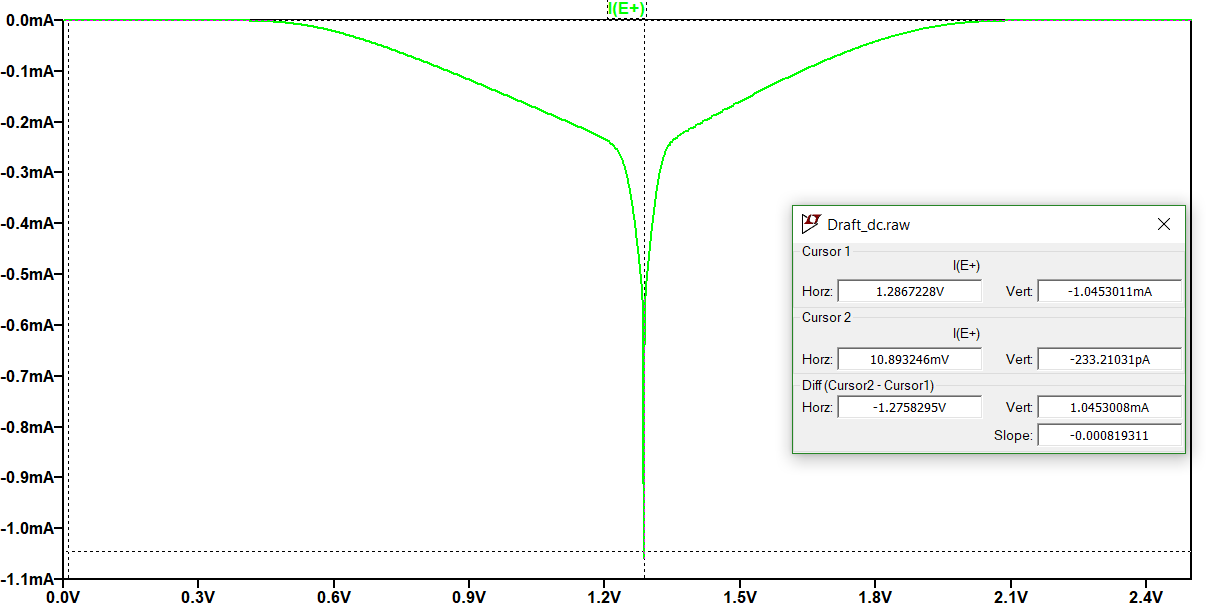
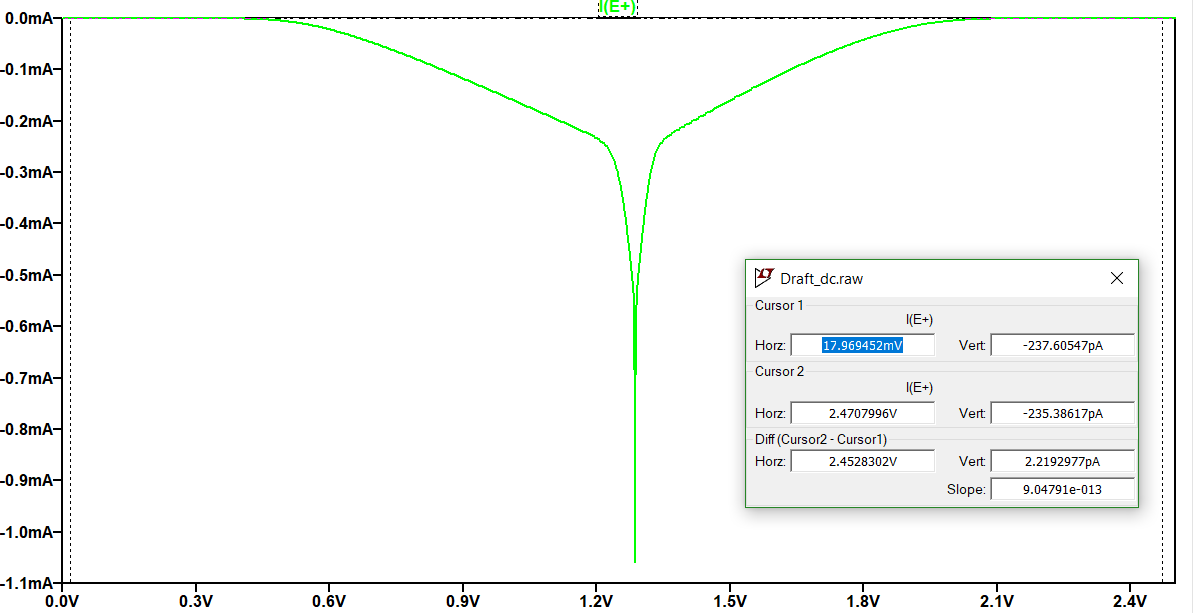
Write static

diff --git a/M3/DZ2/Text/main.tex b/M3/DZ2/Text/main.tex
@@ -184,6 +184,60 @@ $ PDP=2 * WP + Depth $ -- Периметр стока для PMOPT
 
 \subsection{Анализ статических характеристик}
 
+\begin{figure}[H]
+	\centering		
+	\includegraphics[width=\linewidth]{image/dc_schema}
+	\caption{Схема для расчёта статических характеристик}\label{img:dc_schema}
+\end{figure}
+
+\begin{figure}[H]
+	\centering		
+	\includegraphics[width=\linewidth]{image/dc_V_01}
+	\caption{Передаточная характеристика схемы}\label{img:dc_V_01}
+\end{figure}
+
+\begin{figure}[H]
+	\centering		
+	\includegraphics[width=\linewidth]{image/dc_V}
+	\caption{Увеличенная область перехода}\label{img:dc_V}
+\end{figure}
+
+\begin{figure}[H]
+	\centering		
+	\includegraphics[width=\linewidth]{image/dc_I}
+	\caption{Потребляемый ток включённой и выключенной схемы}\label{img:dc_I}
+\end{figure}
+
+\begin{figure}[H]
+	\centering		
+	\includegraphics[width=\linewidth]{image/dc_I_avg}
+	\caption{Средний ток}\label{img:dc_I_avg}
+\end{figure}
+
+Данные измерений и расчётов:
+
+$U_{log}^0 = 12 nV \approx 0$
+
+$U_{log}^1 = 2.5 V$
+
+$U_{log} = 2.5 V$
+
+$I_0 \approx 0 A $
+
+$I_1 \approx 0 A $
+
+$I_{avg} = -74 mkA $
+
+$V_p^0 = 1.2857V$
+
+$V_p^1 = 1.2871V$
+
+$U_{err}^{+} = 1.2857V - 12nV \approx 1.29V $
+
+$U_{err}^{-} = 2.5V - 1.2871 \approx 1.21V $
+
+$P_{static} = \frac{2.5V \times (0 + 0)}{2} = 0$
+
 \section{Топология}
 
 \begin{landscape}
